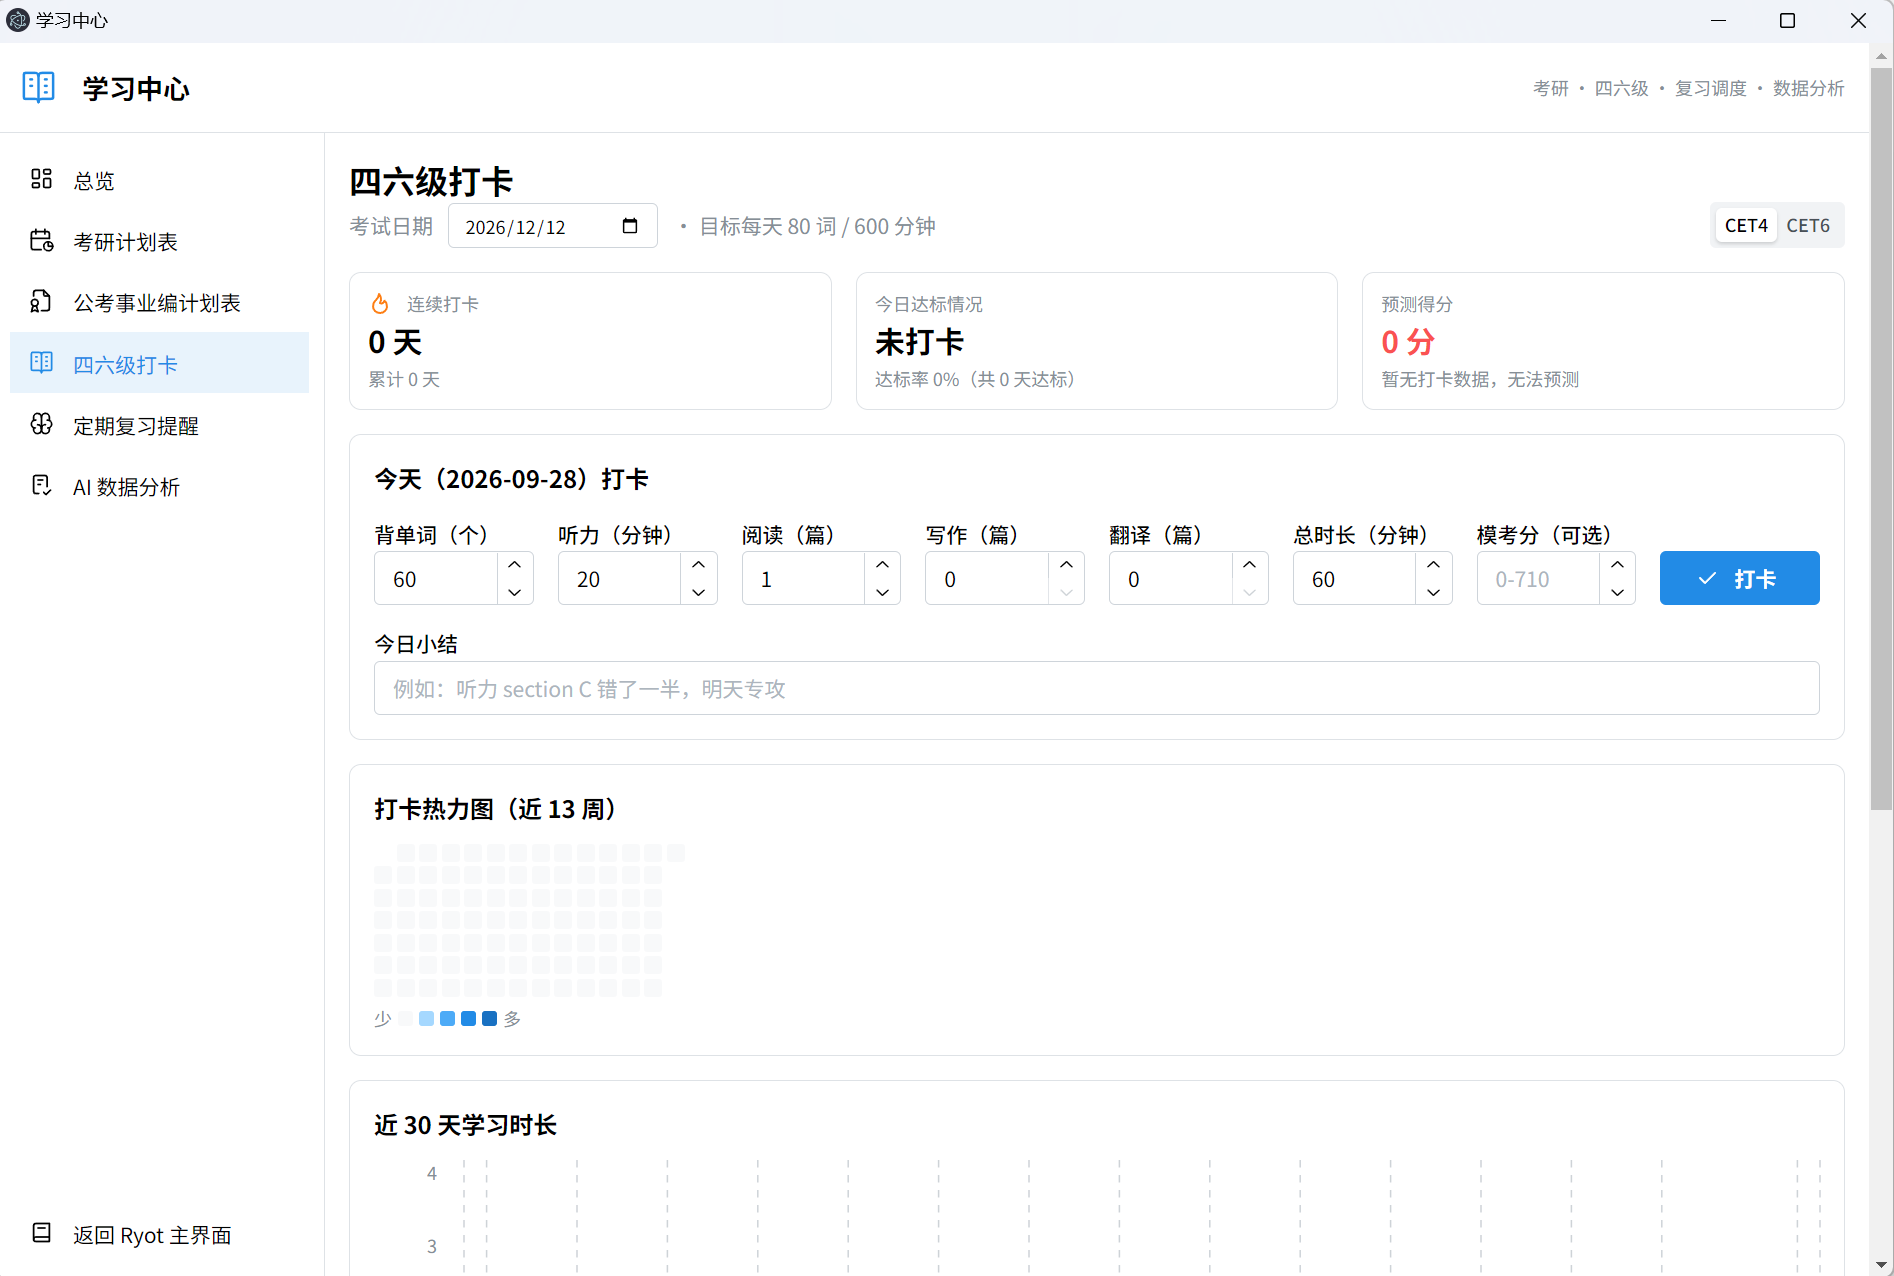
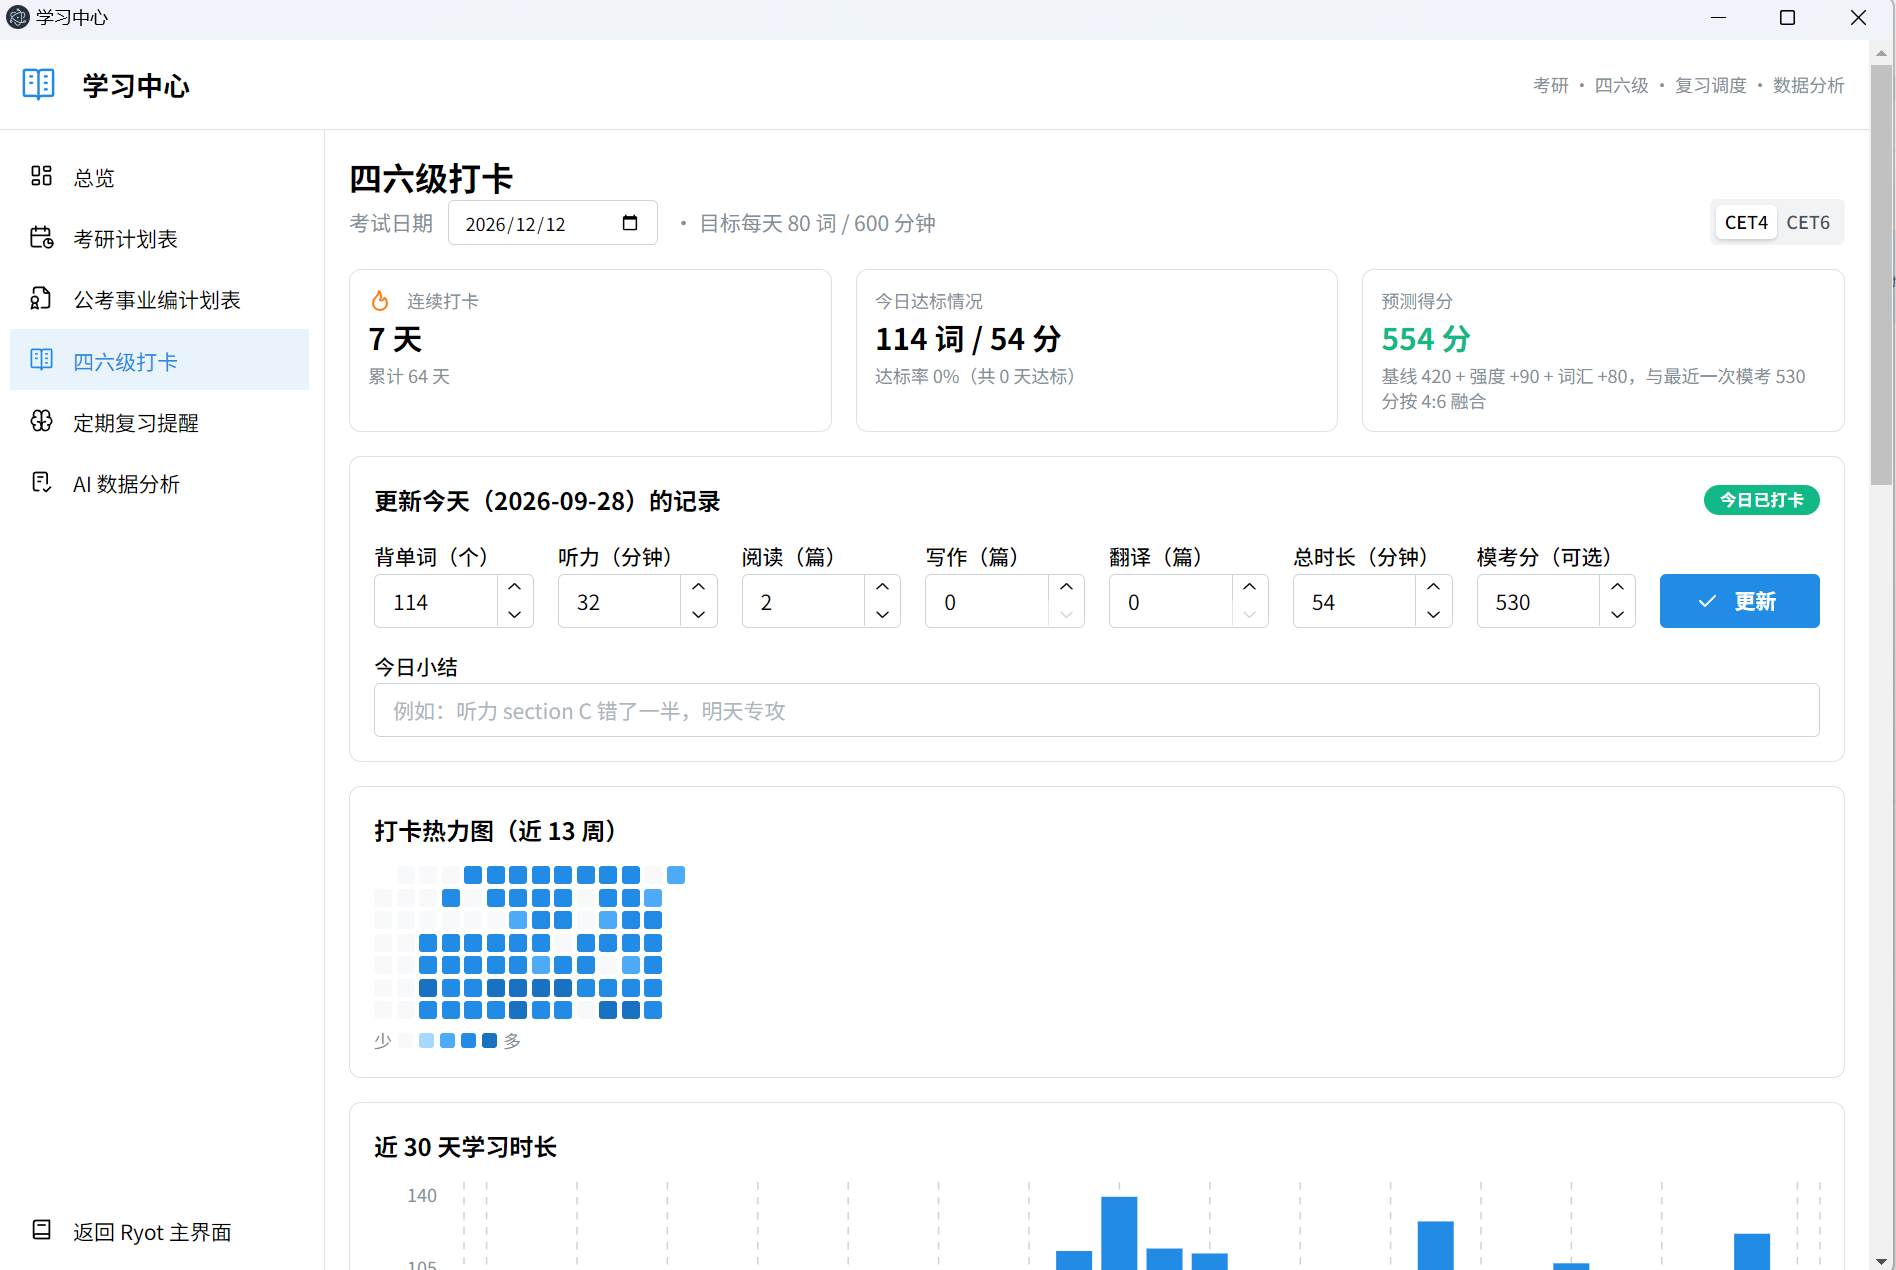
docs: 替换为示例数据下的界面截图，并标注截图仅供参考

diff --git a/README.md b/README.md
@@ -65,7 +65,9 @@
 >
 > #### 截图
 >
-> **学习总览** — 考研 / 四六级倒计时、目标设置、数据备份
+> **以下截图使用内置示例数据，仅供参考；实际界面以你自己的数据为准。**
+>
+> **学习总览** — 考研 / 四六级倒计时、连续打卡、预测分、目标设置、数据备份
 >
 > ![学习总览](screenshots/study-overview.png)
 >
